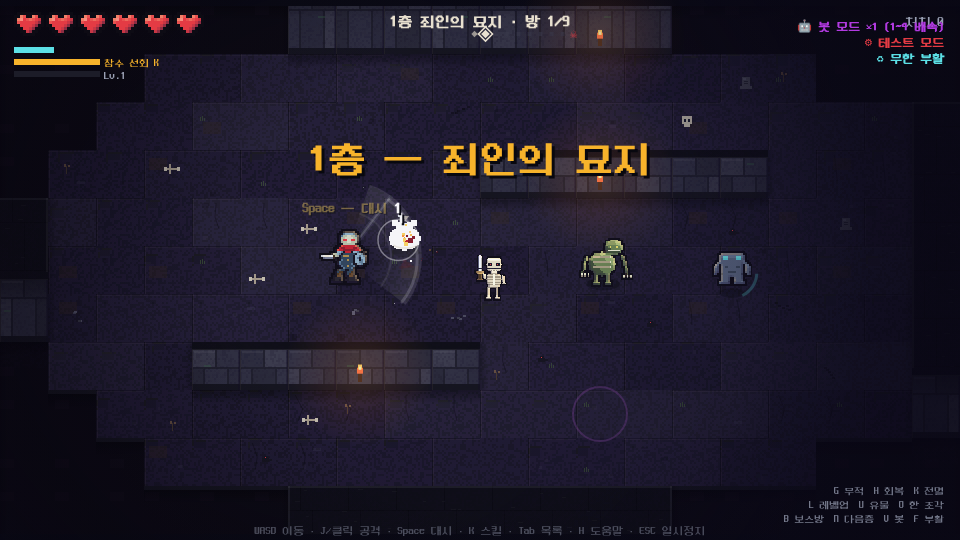
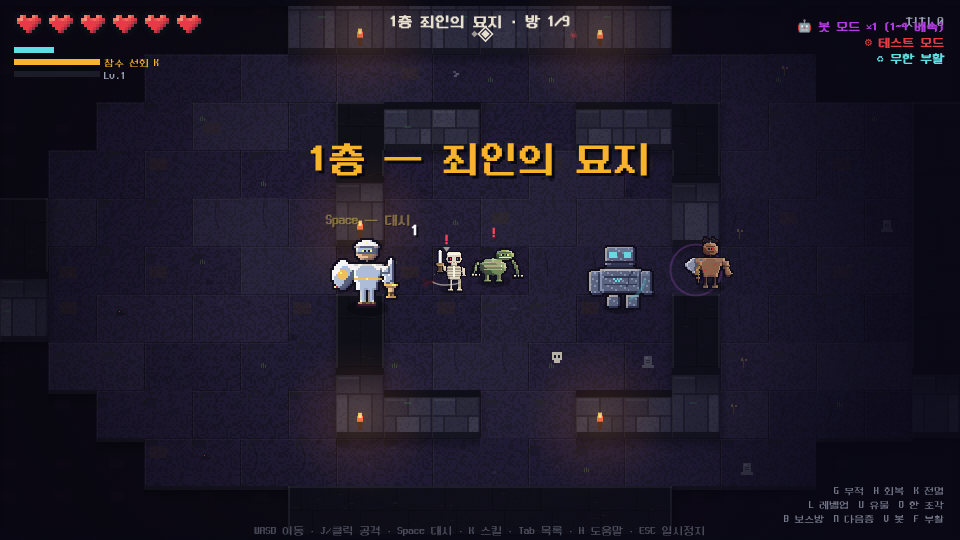
v200: 주인공 4직업 재조립 — 프레임 5장을 한 조립 함수에서 뽑는다
플레이어는 화면에 **항상** 있다. 가장 오래 보는 그림이므로 몬스터보다 더 밀어야 한다.

★ 프레임을 손으로 5장 따로 찍으면 프레임 사이에 몸이 미묘하게 어긋난다
  (종전 그림의 실제 문제였다 — 걷기 2장에서 어깨선이 1px 흔들렸다).
  hero() 가 같은 조립 함수에 pose 만 바꿔 넣어 5장을 만든다:
    0 정지 · 1/2 걷기(다리가 앞뒤로 벌어지고 상체는 고정) · 3 공격(앞으로 쏟아짐) · 4 피격(뒤로 젖혀짐)

  가레스   판금 흉갑(어깨 넓고 허리 좁게) · 투구 볏 · 붉은 망토 · 방패는 맨 앞 · 공격 시 검을 내지른다
  레나     두건 · 등에 멘 화살통 · 몸 앞을 가로지르는 큰 활 (공격 시 시위를 당긴다)
  오르빈   긴 로브 · 흰 수염 · 빛나는 정수가 달린 지팡이 (공격 시 지팡이를 들어올린다)
  이졸데   긴 코트(여밈선·라펠·단추) · 이마의 고글 · 허리에 주렁주렁 매단 약병 3개
           (공격 시 약병을 던지는 손이 앞으로 나온다)

검증: 116항목 전부 통과

Claude-Session: https://claude.ai/code/session_017D97PE3KR5L6sYH1NiXRpV

diff --git a/web/js/data/sprites.js b/web/js/data/sprites.js
@@ -3690,6 +3690,119 @@ const Sprites = (() => {
     for (let k = 0; k < 8; k++) P.put(g, 8 + k * 2.7, 30 + (k % 2), 'c');   // 흘러내린 용암
   }, { C: '#ffd866', c: '#e25822', n: '#7a1010', B: '#fff4c8' });
 
+
+  // ══════════════════════════════════════════════════════════════════════
+  //  주인공 4직업 재조립 (v200) — 사장: "모든 플레이어 몬스터를 시제품처럼"
+  //  플레이어는 화면에 **항상** 있다. 가장 오래 보는 그림이므로 몬스터보다 더 밀어야 한다.
+  //  프레임 5장(걷기3·공격·피격)을 같은 조립 함수에서 pose 만 바꿔 만든다 —
+  //  손으로 5장을 따로 찍으면 프레임 사이에 몸이 미묘하게 어긋난다 (종전 그림의 실제 문제)
+  // ══════════════════════════════════════════════════════════════════════
+  function hero(w, h, build, ov) {
+    // pose: 0 정지 · 1/2 걷기 · 3 공격(앞으로 쏟아짐) · 4 피격(뒤로 젖혀짐)
+    return [0, 1, 2, 3, 4].map((pose) => {
+      const g = canvasGrid(w, h);
+      build(g, pose);
+      return make(P.rows(g), { ...KIT, ...ov });
+    });
+  }
+  // 걷기 다리 — pose 에 따라 앞뒤로 벌어진다. 상체는 거의 고정(걸음의 무게 이동)
+  function heroLegs(g, cx, y0, pose, { hi = 'a', lo = 'n', boot = 'h' } = {}) {
+    const sw = pose === 1 ? 1 : pose === 2 ? -1 : 0;
+    for (const sgn of [-1, 1]) {
+      const off = sgn === sw ? 1 : 0;
+      const bend = sgn === -sw ? 1 : 0;
+      for (let k = 0; k < 6 - bend; k++) {
+        P.span(g, y0 + k, cx + sgn * 2 - 1 + off, cx + sgn * 2 + 1 + off, hi);
+        P.put(g, cx + sgn * 2 - 1 + off, y0 + k, sgn < 0 ? hi : lo);
+      }
+      P.span(g, y0 + 6 - bend, cx + sgn * 2 - 2 + off, cx + sgn * 2 + 2 + off, boot);
+      P.span(g, y0 + 7 - bend, cx + sgn * 2 - 2 + off, cx + sgn * 2 + 2 + off, 'n');
+    }
+  }
+
+  // 가레스 — 판금 투구 · 방패 · 검. 실루엣의 정체성은 **방패와 어깨**
+  sprites.playerFrames.player = hero(38, 40, (g, pose) => {
+    const lean = pose === 3 ? 2 : pose === 4 ? -2 : 0;
+    const cx = 18 + lean;
+    heroLegs(g, 18, 30, pose, { hi: 'S', lo: 's', boot: 'h' });
+    for (let y = 0; y < 13; y++) {                               // 흉갑 — 어깨 넓고 허리 좁게
+      const wd = Math.round(8 - y * 0.28);
+      P.span(g, 17 + y, cx - wd, cx + wd, 'S');
+      P.put(g, cx - wd, 17 + y, 'K'); P.put(g, cx - wd + 1, 17 + y, 'K');
+      P.put(g, cx + wd, 17 + y, 's');
+    }
+    P.span(g, 24, cx - 7, cx + 7, 'G'); P.put(g, cx, 24, 'C');   // 허리띠
+    for (let y = 0; y < 9; y++) { const wd = Math.round(3 + y * 0.7);   // 붉은 망토
+      P.span(g, 20 + y, cx - wd - 7, cx - wd - 4, 'A'); P.put(g, cx - wd - 7, 20 + y, 'C'); }
+    P.head(g, cx, 10, 1, { helm: true, eye: 'C' });
+    P.span(g, 8, cx - 6, cx + 6, 's'); P.put(g, cx, 6, 'C');     // 투구 볏
+    if (pose === 3) { P.sword(g, cx + 15, 22, 1, 13); P.limb(g, cx + 11, 17, 1, { hi: 'K', mid: 'S', lo: 's', dx: 0.4, len: 3, thick: 3 }); }
+    else { P.sword(g, cx + 12, 26, 1, 12); P.limb(g, cx + 9, 18, 1, { hi: 'K', mid: 'S', lo: 's', dx: 0.2, len: 3, thick: 3 }); }
+    P.shield(g, cx - 12, 22, 1.1);                                // 방패는 맨 앞
+  }, { K: '#e2e8f4', S: '#93a0b4', s: '#4a5266', A: '#a8202c', a: '#7a1620', n: '#3a0c12',
+       G: '#c9a24a', g: '#8a6b3c', h: '#4a3620', C: '#ffd866', F: '#e8c9a0', f: '#c9a179', p: '#8a6a4e' });
+
+  // 레나 — 두건 · 활 · 화살통. 정체성은 **몸 앞을 가로지르는 큰 활**
+  sprites.playerFrames.playerArcher = hero(38, 40, (g, pose) => {
+    const lean = pose === 3 ? 2 : pose === 4 ? -2 : 0;
+    const cx = 18 + lean;
+    heroLegs(g, 18, 30, pose, { hi: 'a', lo: 'n', boot: 'h' });
+    P.rect(g, cx + 6, 12, 4, 10, 'h');                            // 등에 멘 화살통
+    for (let k = 0; k < 4; k++) P.put(g, cx + 6 + k, 11 - k * 0.5, 'G');
+    for (let y = 0; y < 13; y++) { const wd = Math.round(6.5 - y * 0.1);
+      P.span(g, 17 + y, cx - wd, cx + wd, 'a');
+      P.put(g, cx - wd, 17 + y, 'A'); P.put(g, cx + wd, 17 + y, 'n'); }
+    P.span(g, 25, cx - 6, cx + 6, 'h'); P.put(g, cx, 25, 'G');
+    P.head(g, cx, 10, 1, { hood: true, eye: 'C' });
+    P.limb(g, cx - 8, 18, 1, { dx: -0.2, len: 3, thick: 3 });
+    P.bow(g, cx + 11, 21, 1, { drawn: pose === 3 });
+  }, { A: '#5e7a4a', a: '#3e5630', n: '#1e2c16', C: '#8ad8ff', G: '#c9a24a', g: '#8a6b3c', h: '#4a3620',
+       F: '#e8c9a0', f: '#c9a179', p: '#8a6a4e' });
+
+  // 오르빈 — 로브 · 지팡이 · 수염. 정체성은 **긴 로브와 빛나는 정수**
+  sprites.playerFrames.playerMage = hero(38, 42, (g, pose) => {
+    const lean = pose === 3 ? 2 : pose === 4 ? -2 : 0;
+    const cx = 18 + lean;
+    heroLegs(g, 18, 32, pose, { hi: 'a', lo: 'n', boot: 'h' });
+    P.cloak(g, cx, 16, 1.15, 17);
+    P.head(g, cx, 10, 1, { hood: true, eye: 'C' });
+    for (let y = 0; y < 6; y++) {                                 // 수염 — 마법사의 정체성
+      const wd = Math.round(4 - y * 0.5);
+      P.span(g, 14 + y, cx - wd, cx + wd, y < 2 ? 'B' : 'b');
+    }
+    P.limb(g, cx - 9, 19, 1, { dx: -0.2, len: 3, thick: 3 });
+    P.staff(g, cx + 12, pose === 3 ? 30 : 34, 1, 22);
+  }, { A: '#4a3a6c', a: '#31264a', n: '#170f28', C: '#b16aff', c: '#7a2fb8',
+       B: '#f4eeda', b: '#c8c0b0', F: '#e8c9a0', f: '#c9a179', p: '#8a6a4e', G: '#c9a24a', g: '#8a6b3c' });
+
+  // 이졸데 — 코트 · 고글 · 허리의 약병들. 정체성은 **주렁주렁 매단 유리병**
+  sprites.playerFrames.playerAlch = hero(38, 40, (g, pose) => {
+    const lean = pose === 3 ? 2 : pose === 4 ? -2 : 0;
+    const cx = 18 + lean;
+    heroLegs(g, 18, 30, pose, { hi: 'a', lo: 'n', boot: 'h' });
+    for (let y = 0; y < 16; y++) { const wd = Math.round(6.5 + y * 0.16);   // 긴 코트
+      P.span(g, 17 + y, cx - wd, cx + wd, 'a');
+      P.put(g, cx - wd, 17 + y, 'A'); P.put(g, cx - wd + 1, 17 + y, 'A');
+      P.put(g, cx + wd, 17 + y, 'n');
+      if (y > 2 && (y + cx) % 4 === 0) P.put(g, cx - 1, 17 + y, 'n'); }
+    for (let y = 0; y < 16; y++) { P.put(g, cx, 17 + y, 'n'); P.put(g, cx + 1, 17 + y, 'A'); }  // 여밈선
+    for (let k = 0; k < 5; k++) { P.put(g, cx + 2, 19 + k * 3, 'G'); }                          // 단추
+    for (let k = 0; k < 5; k++) { P.put(g, cx - 4 + k, 17 + k, 'A'); P.put(g, cx + 4 - k, 17 + k, 'A'); }  // 깃(라펠)
+    P.head(g, cx, 10, 1, { eye: 'C' });
+    P.span(g, 8, cx - 6, cx + 6, 'S'); P.span(g, 9, cx - 6, cx + 6, 'K');   // 이마의 고글
+    P.put(g, cx - 3, 9, 'C'); P.put(g, cx + 3, 9, 'C');
+    for (const [dx, col] of [[-7, 'C'], [-4, 'P'], [7, 'r']]) {             // 허리의 약병
+      P.rect(g, cx + dx, 25, 3, 4, col); P.put(g, cx + dx + 1, 24, 'S');
+      P.put(g, cx + dx, 25, 'B');
+    }
+    P.limb(g, cx - 9, 19, 1, { dx: -0.2, len: 3, thick: 3 });
+    if (pose === 3) { P.shade(g, cx + 13, 16, 3.5, 3.5, 'B', 'P', 'c'); P.limb(g, cx + 9, 17, 1, { dx: 0.4, len: 3, thick: 3 }); }
+    else P.limb(g, cx + 9, 19, 1, { dx: 0.2, len: 3, thick: 3 });
+  }, { A: '#3f5a6a', a: '#2a3d4a', n: '#131e26', C: '#8ad8ff', c: '#3a7ab0', P: '#8adf76',
+       S: '#9aa2b8', K: '#d8e0f0', B: '#ffffff', r: '#e43b44', F: '#e8c9a0', f: '#c9a179', p: '#8a6a4e', h: '#3a2c1a' });
+
+  for (const k of ['player', 'playerArcher', 'playerMage', 'playerAlch']) sprites[k] = sprites.playerFrames[k][0];
+
   sprites.deriveFrames = deriveFrames;
   // UI·투사체·아이템은 자세가 없다 — 걸으면 안 된다
   const NO_POSE = /^(arrow|heart|coin|chest|orb|icon|shard|door|torch|pot|crack|rune|bolt|proj|white|tint)/i;
